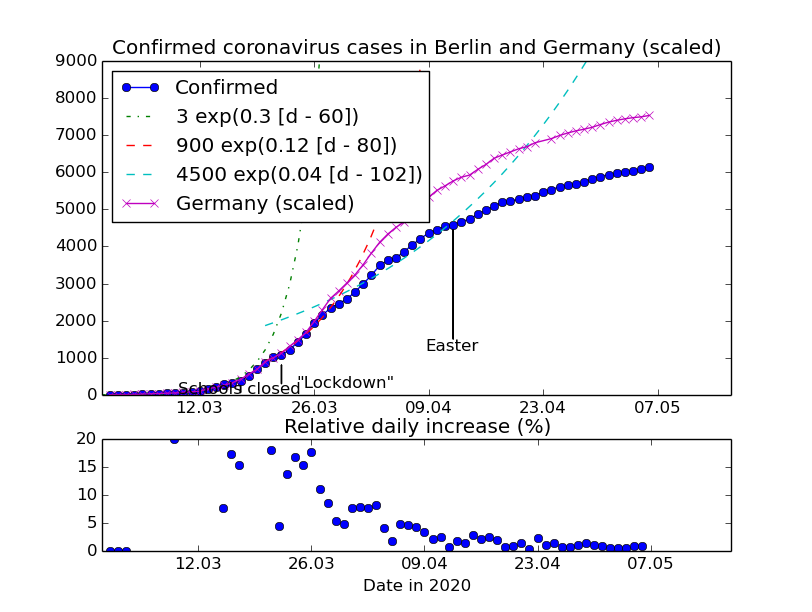
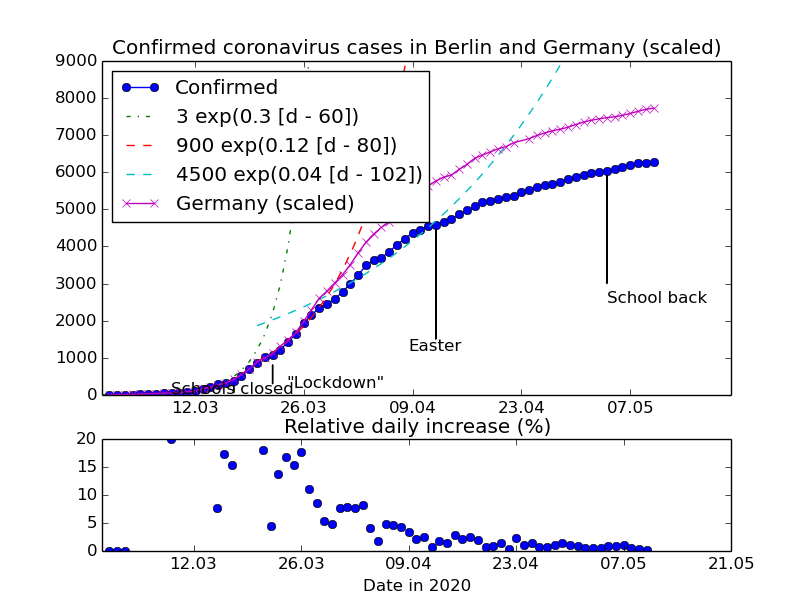
Update for 2020-05-10; add 'School back' label

diff --git a/plot.py b/plot.py
@@ -86,6 +86,9 @@ ax0.text(82-1+2, 200, '"Lockdown"', horizontalalignment='left')
 ax0.arrow(103-1, 4500 - 3000, 0, 3000)
 ax0.text(103-1, 1200, 'Easter', horizontalalignment='center')
 
+# School back, 2020-05-04 = doy 125
+ax0.arrow(125-1, 6000 - 3000, 0, 3000)
+ax0.text(125-1, 2500, 'School back', horizontalalignment='left')
 
 bpop =  3748148    # Wikipedia, population of Berlin, at 31 Dec 2018
 gpop = 83149030    # Wikipedia, population of Germany, at 30 Sept 2019
